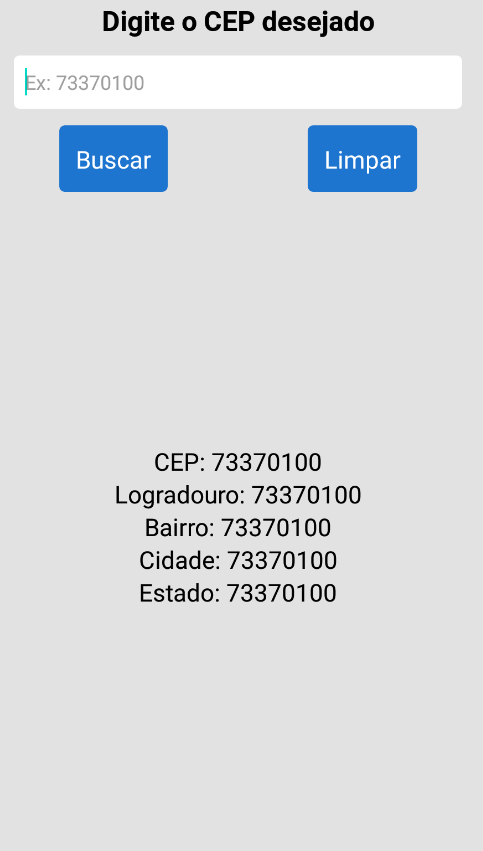
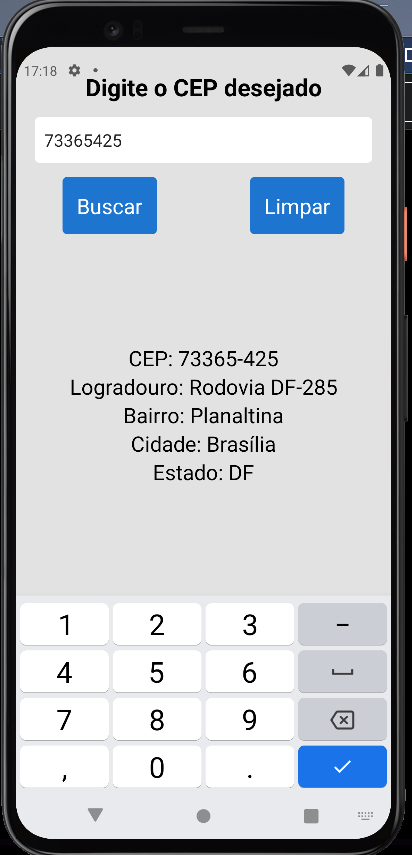
C2 - Validação dos campos

diff --git a/App.js b/App.js
@@ -1,14 +1,39 @@
 /**
  * 
  */
-import React, { useState } from "react";
-import { View, Text, SafeAreaView, TextInput, TouchableOpacity } from "react-native";
+import React, { useState, useRef } from "react";
+import { View, Text, SafeAreaView, TextInput, TouchableOpacity, Keyboard } from "react-native";
 import { styles } from "./styles";
 import api from "./src/services/api";
 
 export default function App() {
 
   const [cep, setCep] = useState('')
+  const inputRef = useRef(null);
+  const [cepUser, setCepUser] = useState(null);
+
+  async function buscar() {
+    if (cep == '') {  //se o cep for vazio cai aqui
+      alert('Digite um CEP válido')
+      setCep('') //volta a ficar vazio
+      return;  //volta para o inicio
+    }
+
+    try {
+      const resposta = await api.get(`/${cep}/json`);  //get busca se o cep que foi digitado é valido
+      //console.log(resposta.data) //apresentará a resposta encontrada na requisição get
+      setCepUser(resposta.data)  //passa para o setCepUser o resultado encontrado em  resposta.data
+      Keyboard.dismiss();  //faz o teclado fechar
+    } catch (error) {
+      console.log('ERROR: ' + error)
+    }
+  }
+
+  function limpar() {
+    setCep('')
+    inputRef.current.focus();  //ao limpar, fará com que o cursor permaneã no input
+    setCepUser(null); //limpa os campos 
+  }
 
   return (
     <SafeAreaView style={styles.container}>
@@ -19,28 +44,31 @@ export default function App() {
           style={styles.input}
           placeholder="Ex: 73370100"
           value={cep}
-          onChangeText={ (texto) => setCep(texto) } //cria o texto, setCep recebera o valor digitado por meio texto
+          onChangeText={(texto) => setCep(texto)} //cria o texto, setCep recebera o valor digitado por meio texto
           keyboardType="numeric"
+          ref={inputRef}
         />
       </View>
 
       <View style={styles.areaBtn}>
-        <TouchableOpacity style={styles.botao}>
+        <TouchableOpacity style={styles.botao} onPress={buscar}>
           <Text style={styles.botaoText}>Buscar</Text>
         </TouchableOpacity>
 
-        <TouchableOpacity style={styles.botao}>
+        <TouchableOpacity style={styles.botao} onPress={limpar}>
           <Text style={styles.botaoText}>Limpar</Text>
         </TouchableOpacity>
       </View>
 
-      <View style={styles.resultado}>
-        <Text style={styles.itemText}>CEP: 73370100</Text>
-        <Text style={styles.itemText}>Logradouro: 73370100</Text>
-        <Text style={styles.itemText}>Bairro: 73370100</Text>
-        <Text style={styles.itemText}>Cidade: 73370100</Text>
-        <Text style={styles.itemText}>Estado: 73370100</Text>
-      </View>
+      {cepUser &&  //evita o erro, caso o cepUser começe como null
+        <View style={styles.resultado}>
+          <Text style={styles.itemText}>CEP: {cepUser.cep}</Text>
+          <Text style={styles.itemText}>Logradouro: {cepUser.logradouro}</Text>
+          <Text style={styles.itemText}>Bairro: {cepUser.bairro}</Text>
+          <Text style={styles.itemText}>Cidade: {cepUser.localidade}</Text>
+          <Text style={styles.itemText}>Estado: {cepUser.uf}</Text>
+        </View>
+      }
     </SafeAreaView>
   )
 }
